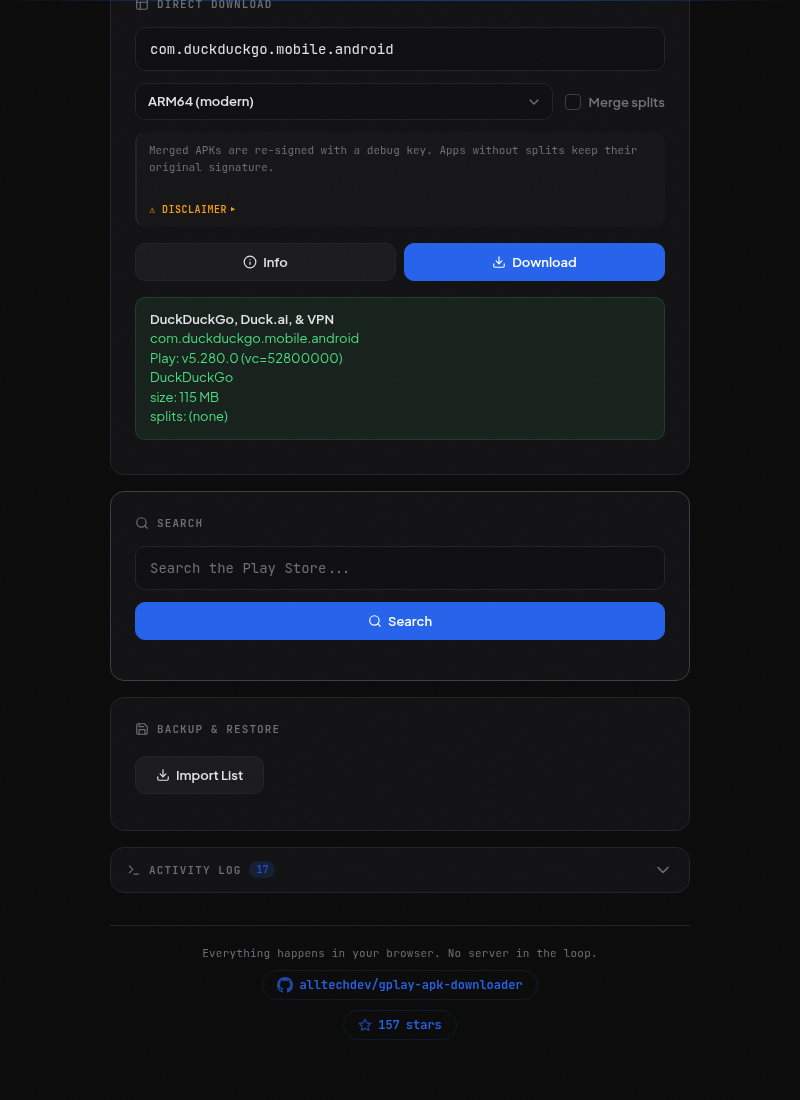
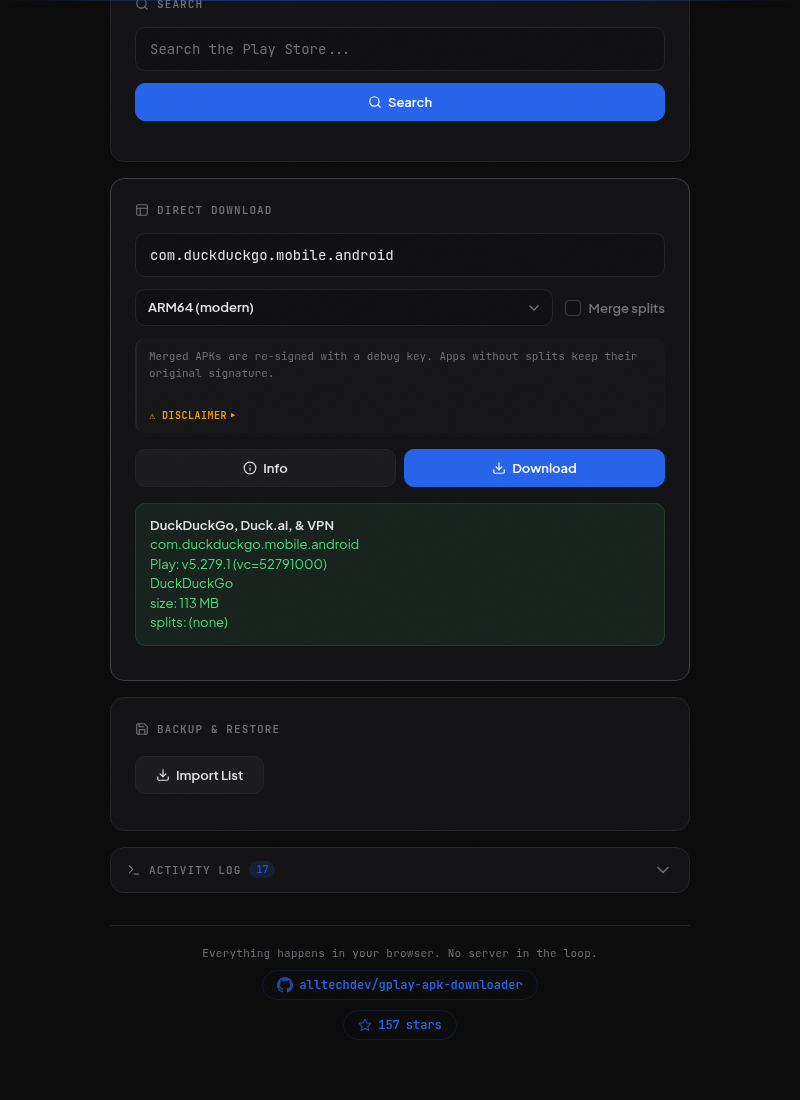
Layout: independent columns; Search under Install to Device
Wrap the four secondary cards in two .col flexboxes inside a single
.cols grid container. On wide viewports (>=960px) the two columns sit
side-by-side; below that they stack vertically. Each column's cards
stack tightly with their own flex gap, so there's no row-alignment gap
caused by sibling cells of different heights.

Auth is now inside the left column (top), not a full-width row.

Final wide-viewport layout:
  Header (full)
  Auth (col-1) | Direct Download (col-2)
  Install to Device (col-1) | Backup & Restore (col-2)
  Search (col-1)
  Activity Log (full)
  Footer (full)

05-wide-layout test updated to target .cols (not .wrapper) since the
grid is now on the inner container.

diff --git a/web_extension/src/index.html b/web_extension/src/index.html
@@ -22,6 +22,8 @@
       <p>Download APKs directly from Google Play Store</p>
     </header>
 
+    <div class="cols">
+    <div class="col">
     <div class="card" id="auth-card">
       <div class="card-label">
         <svg viewBox="0 0 24 24" fill="none" stroke="currentColor" stroke-width="2" stroke-linecap="round" stroke-linejoin="round"><path d="M20 21v-2a4 4 0 0 0-4-4H8a4 4 0 0 0-4 4v2"/><circle cx="12" cy="7" r="4"/></svg>
@@ -48,6 +50,23 @@
       <div class="adb-status" id="adb-status">checking WebUSB…</div>
     </div>
 
+    <div class="card">
+      <div class="card-label">
+        <svg viewBox="0 0 24 24" fill="none" stroke="currentColor" stroke-width="2" stroke-linecap="round" stroke-linejoin="round"><circle cx="11" cy="11" r="8"/><line x1="21" y1="21" x2="16.65" y2="16.65"/></svg>
+        Search
+      </div>
+      <input type="text" id="search-q" placeholder="Search the Play Store...">
+      <div class="btn-row">
+        <button class="btn-primary" id="search-btn">
+          <svg width="14" height="14" viewBox="0 0 24 24" fill="none" stroke="currentColor" stroke-width="2" stroke-linecap="round" stroke-linejoin="round"><circle cx="11" cy="11" r="8"/><line x1="21" y1="21" x2="16.65" y2="16.65"/></svg>
+          Search
+        </button>
+      </div>
+      <div id="search-results" class="results"></div>
+    </div>
+    </div><!-- /.col -->
+
+    <div class="col">
     <div class="card" id="download-card">
       <div class="card-label">
         <svg viewBox="0 0 24 24" fill="none" stroke="currentColor" stroke-width="2" stroke-linecap="round" stroke-linejoin="round"><rect x="3" y="3" width="18" height="18" rx="2" ry="2"/><line x1="3" y1="9" x2="21" y2="9"/><line x1="9" y1="21" x2="9" y2="9"/></svg>
@@ -92,21 +111,6 @@
       <div id="info-result" class="results"></div>
     </div>
 
-    <div class="card">
-      <div class="card-label">
-        <svg viewBox="0 0 24 24" fill="none" stroke="currentColor" stroke-width="2" stroke-linecap="round" stroke-linejoin="round"><circle cx="11" cy="11" r="8"/><line x1="21" y1="21" x2="16.65" y2="16.65"/></svg>
-        Search
-      </div>
-      <input type="text" id="search-q" placeholder="Search the Play Store...">
-      <div class="btn-row">
-        <button class="btn-primary" id="search-btn">
-          <svg width="14" height="14" viewBox="0 0 24 24" fill="none" stroke="currentColor" stroke-width="2" stroke-linecap="round" stroke-linejoin="round"><circle cx="11" cy="11" r="8"/><line x1="21" y1="21" x2="16.65" y2="16.65"/></svg>
-          Search
-        </button>
-      </div>
-      <div id="search-results" class="results"></div>
-    </div>
-
     <div class="card backup-card visible" id="backup-card">
       <div class="card-label">
         <svg viewBox="0 0 24 24" fill="none" stroke="currentColor" stroke-width="2" stroke-linecap="round" stroke-linejoin="round"><path d="M19 21H5a2 2 0 0 1-2-2V5a2 2 0 0 1 2-2h11l5 5v11a2 2 0 0 1-2 2z"/><polyline points="17 21 17 13 7 13 7 21"/><polyline points="7 3 7 8 15 8"/></svg>
@@ -127,6 +131,8 @@
       </div>
       <div id="backup-result"></div>
     </div>
+    </div><!-- /.col -->
+    </div><!-- /.cols -->
 
     <div class="log-panel" id="log-panel">
       <div class="log-header" id="log-header">

diff --git a/web_extension/src/style.css b/web_extension/src/style.css
@@ -68,28 +68,32 @@
       padding: 40px 20px 60px;
     }
 
-    /* On wider viewports use two columns. Header / Auth / Activity Log /
-       Footer span the full row; the remaining cards flow into either
-       column in DOM order. Below 960px we fall back to the original
-       single-column layout (which mobile media query also tightens). */
+    /* Two-column block. On narrow screens .cols stacks vertically with each
+       column also stacked, so the visual order is:
+         col-1: Install to Device, Search
+         col-2: Direct Download, Backup & Restore
+       At >= 960px the two .col flexboxes sit side-by-side; each column's
+       cards stack tightly (no row-alignment gap from grid). */
+    .cols {
+      display: flex;
+      flex-direction: column;
+      gap: 16px;
+      margin-bottom: 16px;
+    }
+    .col {
+      display: flex;
+      flex-direction: column;
+      gap: 16px;
+    }
+    .col > .card { margin-bottom: 0; }
+
     @media (min-width: 960px) {
-      .wrapper {
-        max-width: 1240px;
+      .wrapper { max-width: 1240px; }
+      .cols {
         display: grid;
         grid-template-columns: 1fr 1fr;
         column-gap: 24px;
-        row-gap: 16px;
         align-items: start;
-      }
-      .wrapper > .header,
-      .wrapper > .footer,
-      .wrapper > #auth-card,
-      .wrapper > #log-panel {
-        grid-column: 1 / -1;
-      }
-      .wrapper > .card,
-      .wrapper > .log-panel {
-        margin-bottom: 0;
       }
     }
 
